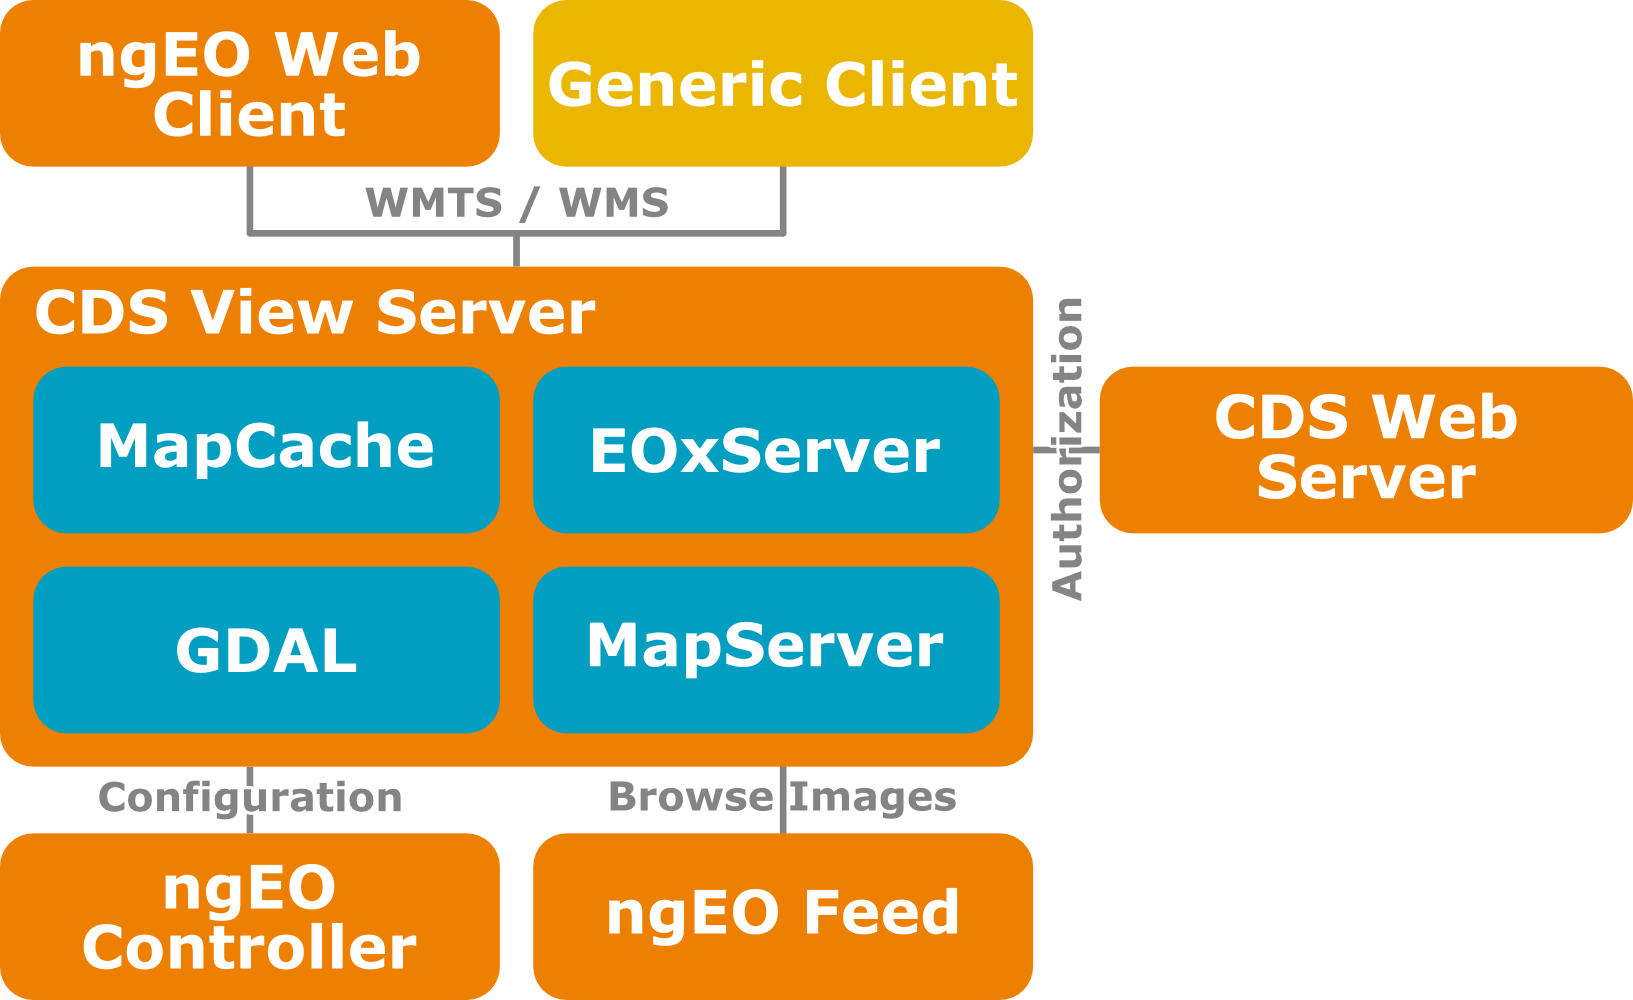
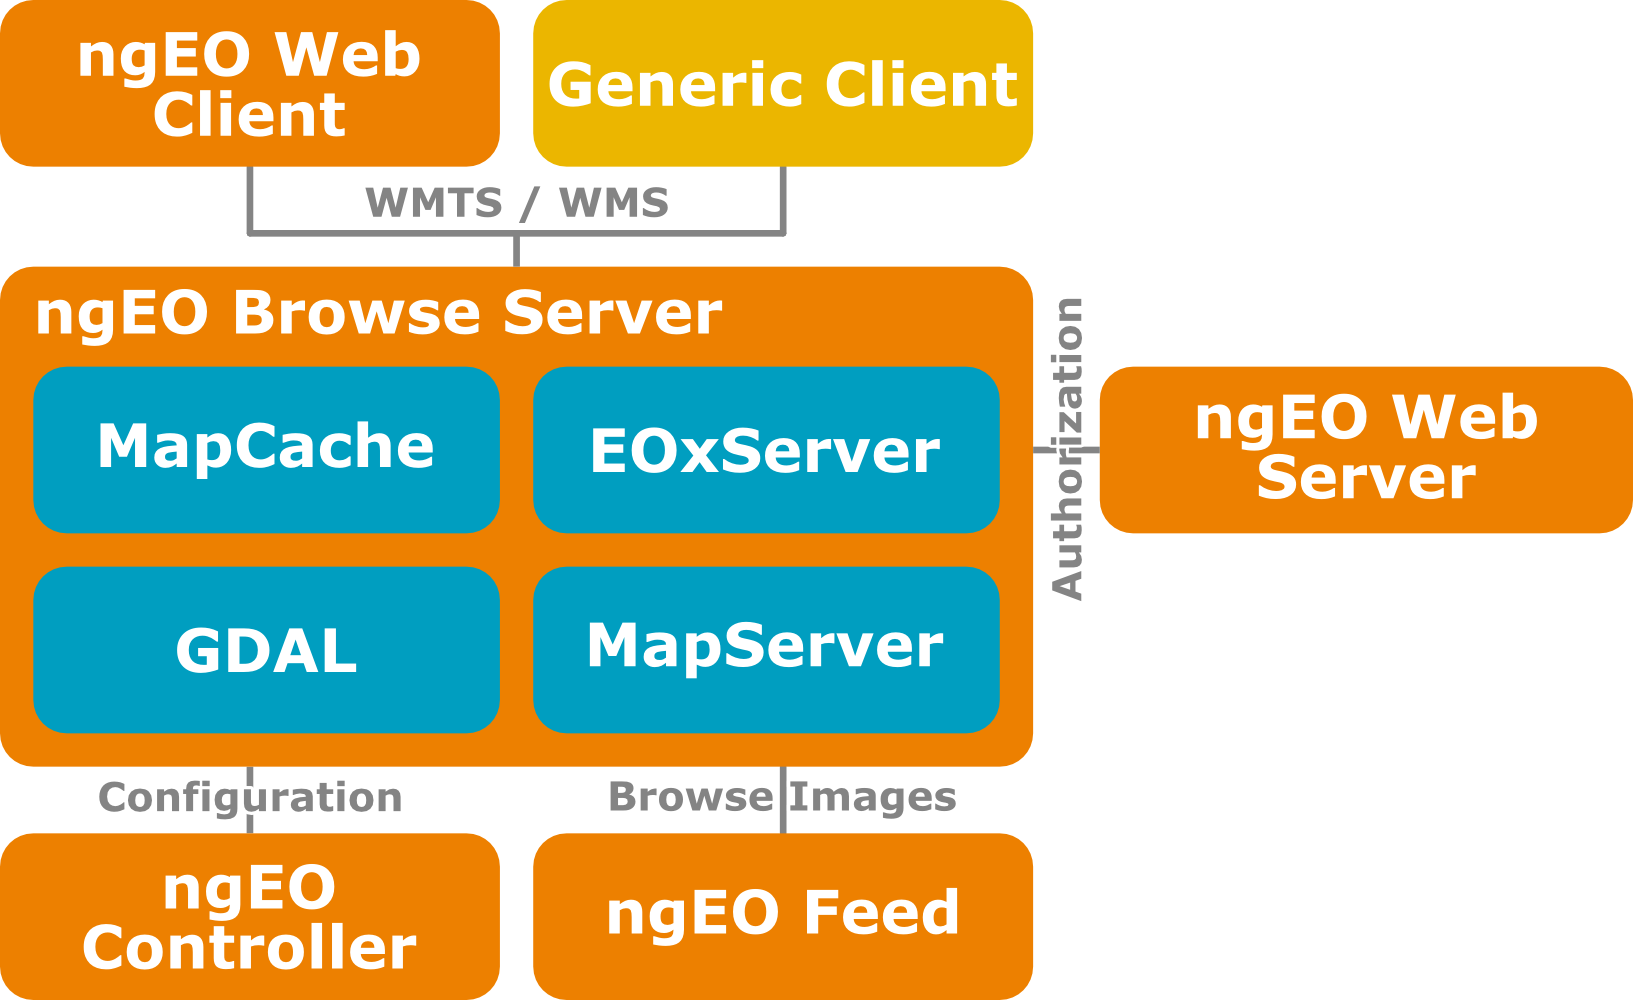
wip

Changed region(s): [[0.0312, 0.279, 0.4372, 0.341], [0.7183, 0.372, 0.9682, 0.465]]

diff --git a/index.html b/index.html
@@ -54,9 +54,8 @@
                     <h2>Outline</h2>
                     <ul>
                         <li class="fragment">ESA User Services - ngEO</li>
-                        <li class="fragment">Browse Server</li>
+                        <li class="fragment">ngEO Browse Server</li>
                         <li class="fragment">MapCache</li>
-                        <li class="fragment">Preprocessing</li>
                         <li class="fragment">Demonstration</li>
                     </ul>
                     <aside class="notes">
@@ -68,40 +67,47 @@
                 </section>
 
                 <section>
-                    <section>
-                        <h2>ngEO</h2>
-                        <aside class="notes">
-                        </aside>
-                    </section>
-                    <section>
-                        <h2>Architecture, ...</h2>
-                        <aside class="notes">
-                        </aside>
-                    </section>
+                    <h2>ESA User Services - ngEO</h2>
+                    <ul>
+                        <li class="fragment">Operational Fully Online Data Access Service</li>
+                        <li class="fragment">GMES and ESA Legacy Missions</li>
+                        <li class="fragment">Fully Centralised Configuration Management</li>
+                        <li class="fragment">Generic System usable for any PDGS</li>
+                    </ul>
+                    <aside class="notes">
+                    </aside>
                 </section>
 
                 <section>
                     <section>
-                        <h2>ngEO Browse Server</h2>
-                        <aside class="notes">
-                        </aside>
-                    </section>
-                    <section>
-                        <h2>OGC's WMTS and WMS standards</h2>
-                        <aside class="notes">
-                        </aside>
-                    </section>
-                    <section>
-                        <h2>Browse Server Architecture</h2>
+                        <h2>ngEO Browse Server - Architecture</h2>
                         <img src="./images/browse_server_architecture.png" alt="Browse Server Architecture" title="Browse Server Architecture"/>
                         <aside class="notes">
-                            Entirely based on Open Source Software: GDAL, MapServer, EOxServer, and MapCache
+                            Entirely based on Open Source Software:
+                            * GDAL for raster processing
+                            * MapServer for OGC services support
+                            * EOxServer for Earth Observation extension
+                            * MapCache for extremely well performing WMTS and WMS access
+                        </aside>
+                    </section>
+                    <section>
+                        <h2>ngEO Browse Server</h2>
+                        <ul>
+                            <li class="fragment">Entirely based on Open Source Software</li>
+                            <li class="fragment">OGC's WMTS and WMS Standards</li>
+                            <li class="fragment">Configuration from ngEO Controller</li>
+                            <li class="fragment">Data ingested by ngEO FEED</li>
+                            <li class="fragment">Authentication using Shibboleth</li>
+                            <li class="fragment">Authorization from ngEO Web Server</li>
+                        </ul>
+                        <aside class="notes">
+                            Won't go into details of the OGC services. Please look it up there is plenty of information available.
                         </aside>
                     </section>
                     <section>
                         <h2>Preprocessing</h2>
                         <ul>
-                            <li class="fragment">Geographic metadata</li>
+                            <li class="fragment">Input Geographic Metadata</li>
                             <ul class="fragment">
                                 <li>Footprint polygon</li>
                                 <li>Regular grid of tiepoints</li>
@@ -177,6 +183,7 @@
                         <p><a href="http://foss4g.eox.at/time.html"><img src="./images/time.png" alt="Live Demonstration" title="Live Demonstration"/></a></p>
                         <aside class="notes">
                             We're trying a live demonstration using the shown URL.
+                            We need you all to disconnect your devices. That's for better connection and you to follow us.
                             Btw. this is our Changing Times contribution to the Opening Up The Map challenge. Maybe you consider voting ;)
                             We have some screen shots as backup in case the connection is too poor.
                         </aside>
